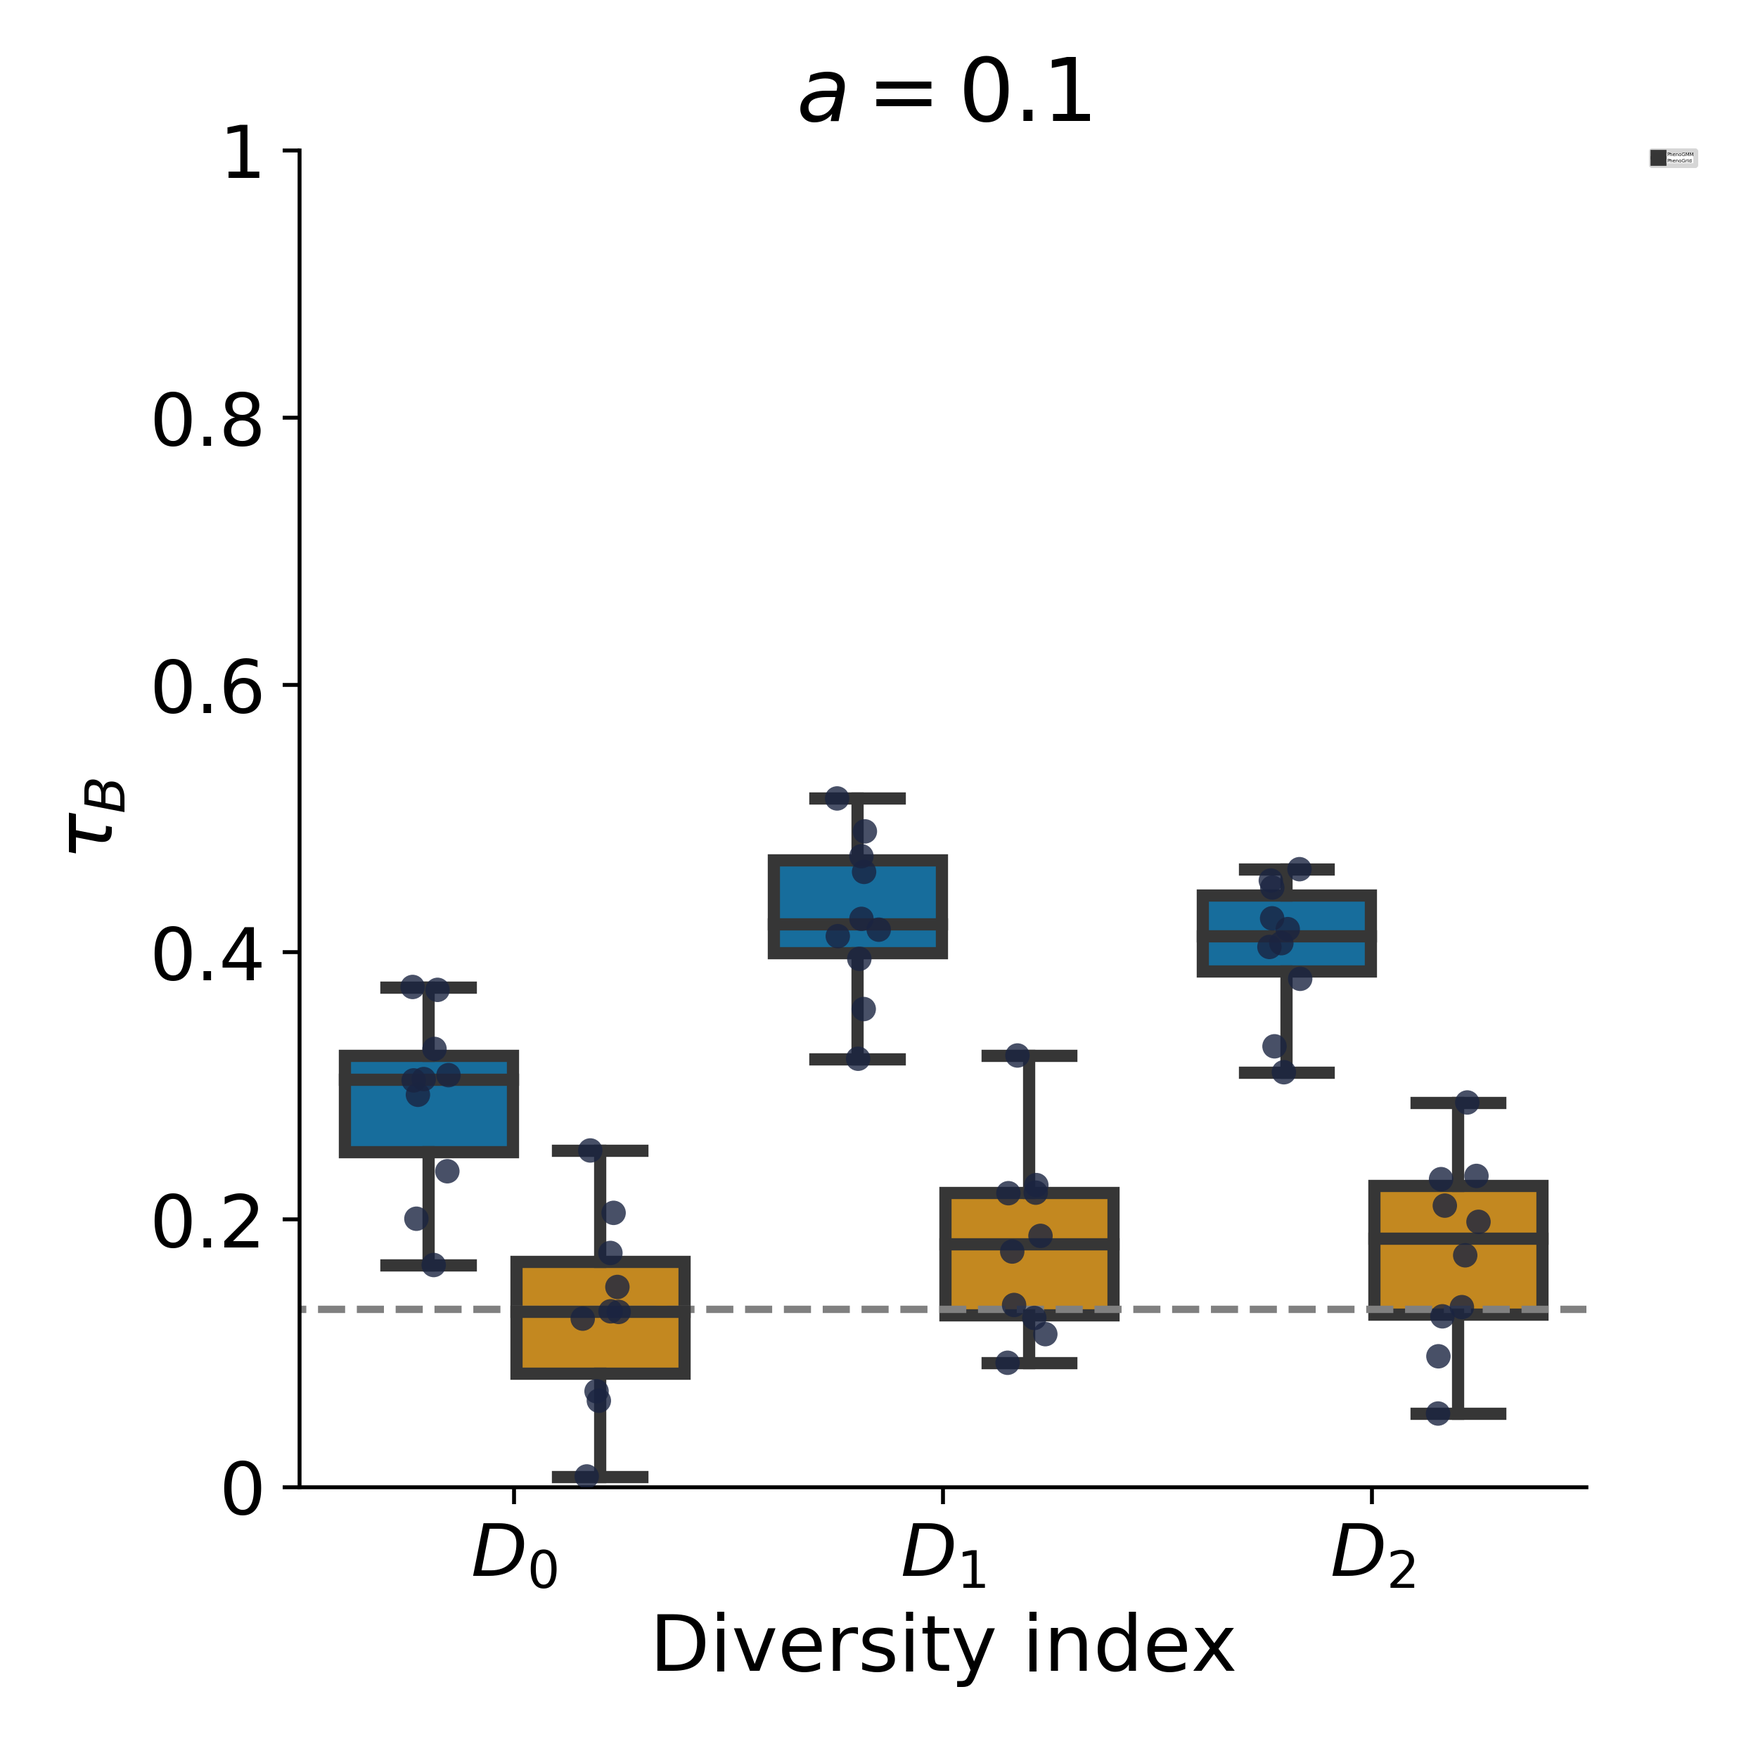
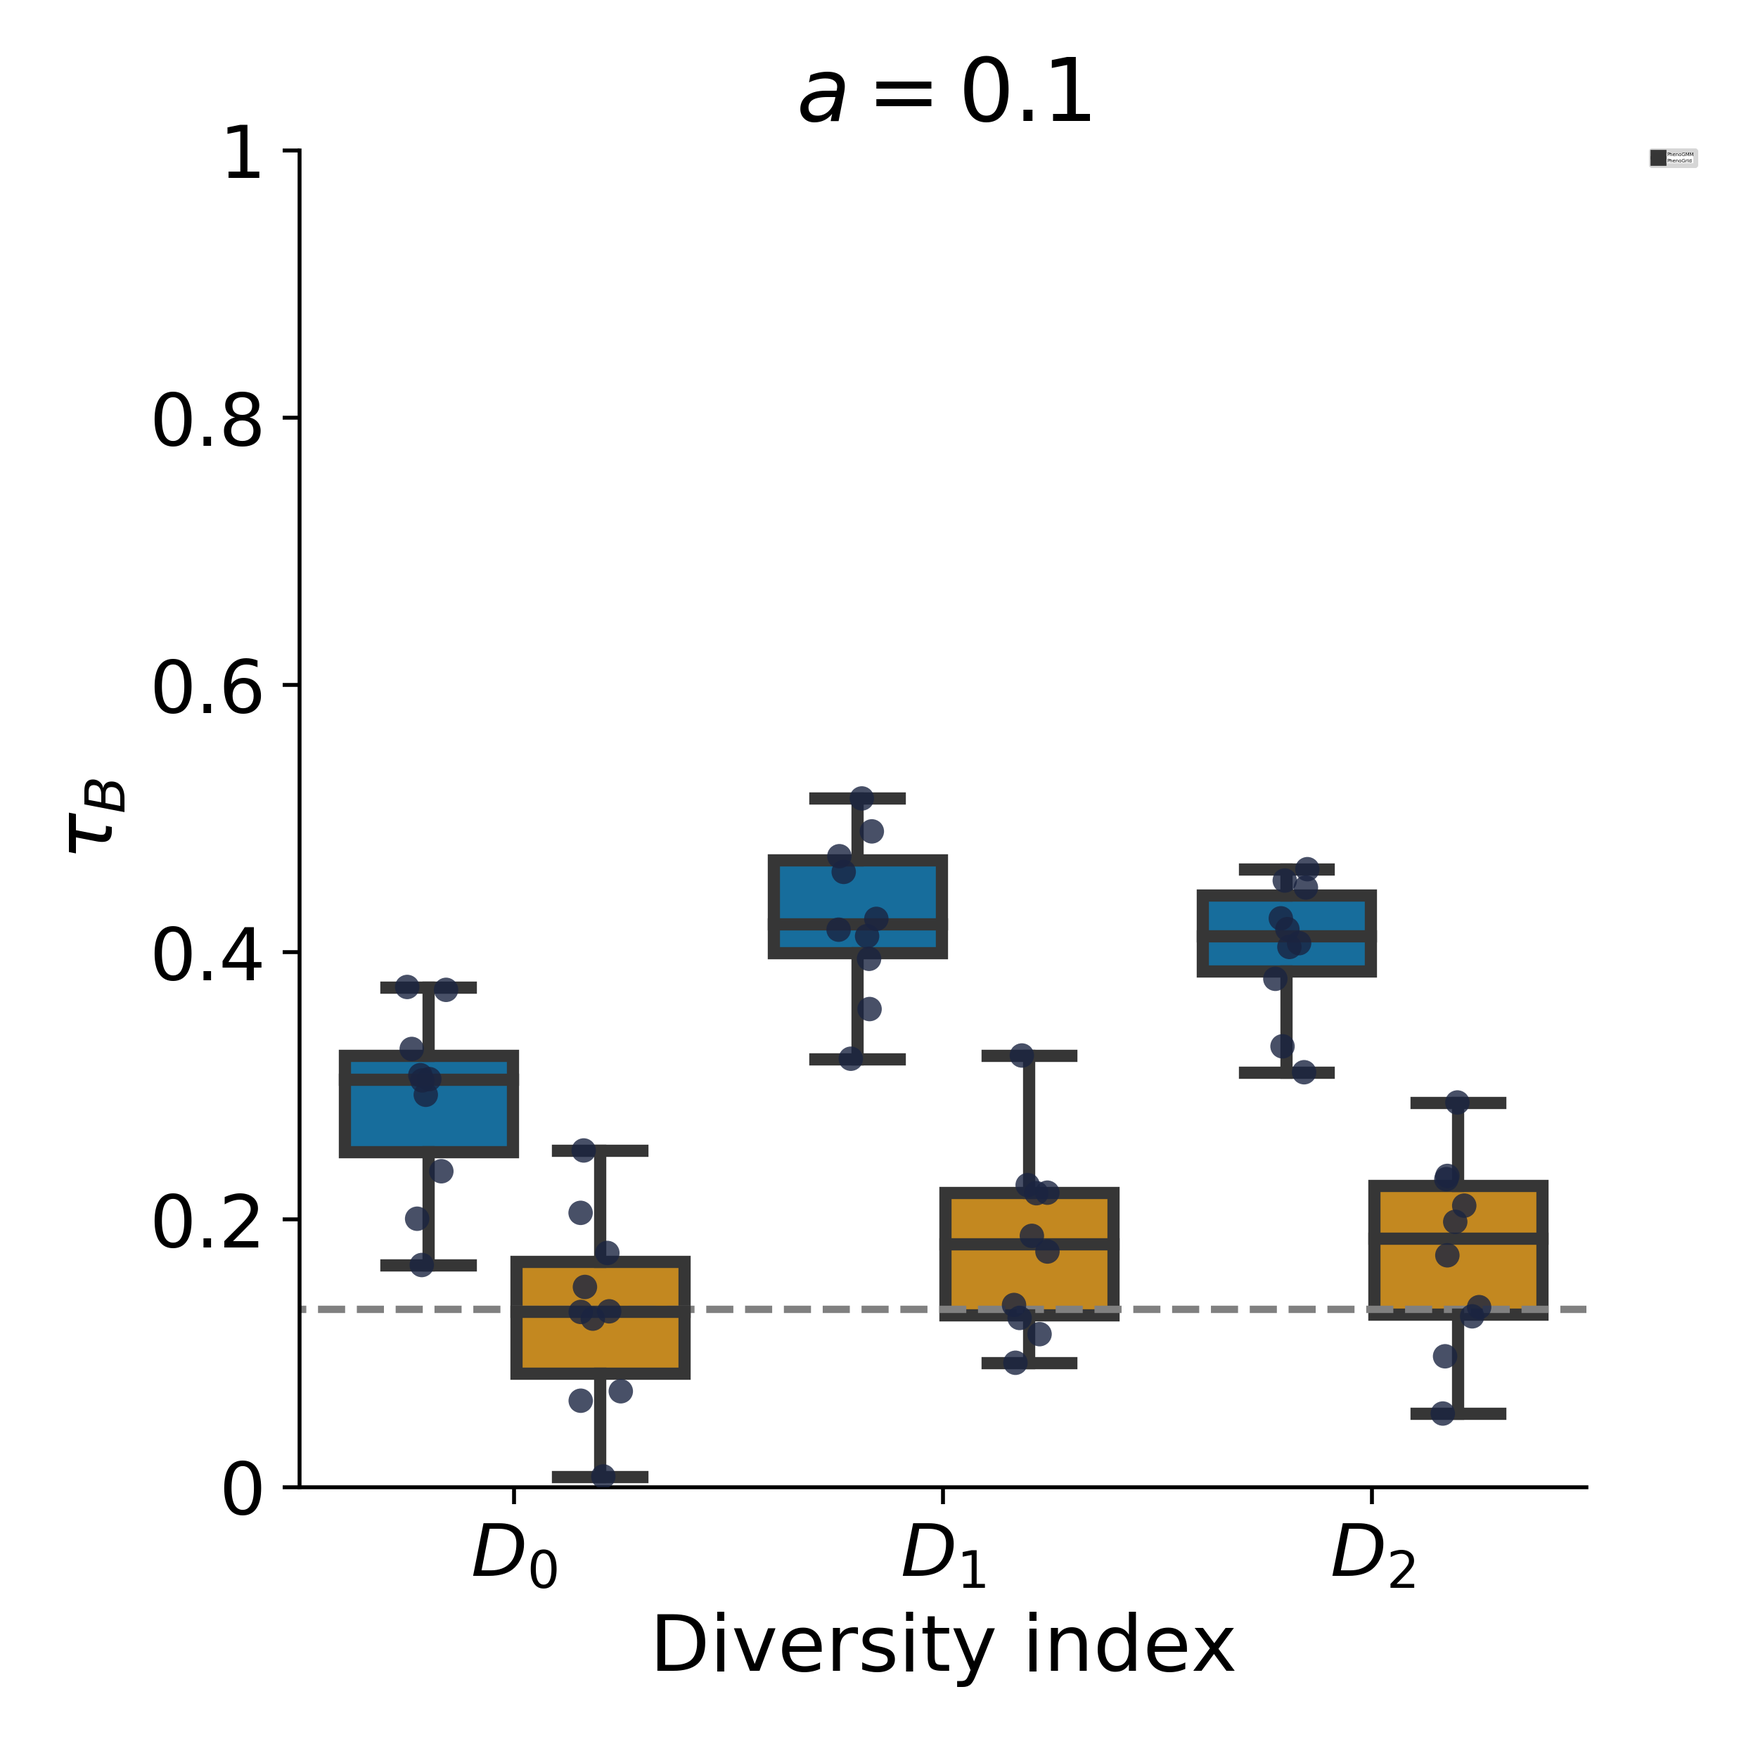
Update for SI Fig 1

diff --git a/Results/plot_fig2_SIfig1.py b/Results/plot_fig2_SIfig1.py
@@ -1,0 +1,258 @@
+#!/usr/bin/env python3
+# -*- coding: utf-8 -*-
+"""
+Created on Wed Oct 24 16:36:05 2018
+
+@author: prubbens
+"""
+
+import pandas as pd
+import matplotlib.pyplot as plt
+import seaborn as sns
+
+df_a0_1_gmm_uns = pd.read_csv('In Silico/Test_GMM_UNS_a=0.1_FEAT=3_N_CELLS_c=2500_N_CELLS_i=2500_N_MIX=128_N_SAMPLES=300_N_TREES=200_asinh.csv', index_col=0, header=0)
+df_a0_1_gmm_uns['Method'] = 'PhenoGMM'
+df_a1_gmm_uns = pd.read_csv('In Silico/Test_GMM_UNS_a=1_FEAT=3_N_CELLS_c=2500_N_CELLS_i=2500_N_MIX=128_N_SAMPLES=300_N_TREES=200_asinh.csv', index_col=0, header=0)
+df_a1_gmm_uns['Method'] = 'PhenoGMM'
+df_a10_gmm_uns = pd.read_csv('In Silico/Test_GMM_UNS_a=10_FEAT=3_N_CELLS_c=2500_N_CELLS_i=2500_N_MIX=128_N_SAMPLES=300_N_TREES=200_asinh.csv', index_col=0, header=0)
+df_a10_gmm_uns['Method'] = 'PhenoGMM'
+
+df_a0_1_grid_uns = pd.read_csv('In Silico/Test_GRID_UNS_a=0.1_FEAT=3_N_CELLS_c=2500_N_CELLS_i=2500_N_MIX=128_N_SAMPLES=300_N_TREES=200_asinh.csv', index_col=0, header=0)
+df_a0_1_grid_uns['Method'] = 'PhenoGrid'
+df_a1_grid_uns = pd.read_csv('In Silico/Test_GRID_UNS_a=1_FEAT=3_N_CELLS_c=2500_N_CELLS_i=2500_N_MIX=128_N_SAMPLES=300_N_TREES=200_asinh.csv', index_col=0, header=0)
+df_a1_grid_uns['Method'] = 'PhenoGrid'
+df_a10_grid_uns = pd.read_csv('In Silico/Test_GRID_UNS_a=10_FEAT=3_N_CELLS_c=2500_N_CELLS_i=2500_N_MIX=128_N_SAMPLES=300_N_TREES=200_asinh.csv', index_col=0, header=0)
+df_a10_grid_uns['Method'] = 'PhenoGrid'
+
+FEAT_UNS = [r'$\tau_B(D_0)$',r'$\tau_B(D_1)$',r'$\tau_B(D_2)$','Method']
+df_a0_1_uns = pd.concat([df_a0_1_gmm_uns.loc[:,FEAT_UNS],df_a0_1_grid_uns.loc[:,FEAT_UNS]])
+df_a0_1_uns = pd.melt(df_a0_1_uns, id_vars = ['Method'], var_name = 'Diversity index', value_name = r'$\tau_B$')
+df_a1_uns = pd.concat([df_a1_gmm_uns.loc[:,FEAT_UNS],df_a1_grid_uns.loc[:,FEAT_UNS]])
+df_a1_uns = pd.melt(df_a1_uns, id_vars = ['Method'], var_name = 'Diversity index', value_name = r'$\tau_B$')
+df_a10_uns = pd.concat([df_a10_gmm_uns.loc[:,FEAT_UNS],df_a10_grid_uns.loc[:,FEAT_UNS]])
+df_a10_uns = pd.melt(df_a10_uns, id_vars = ['Method'], var_name = 'Diversity index', value_name = r'$\tau_B$')
+
+pal = sns.color_palette("colorblind")
+g = sns.catplot(x='Diversity index',y=r'$\tau_B$',data=df_a0_1_uns, legend=False, hue = 'Method', kind='box', size=5, aspect=1, sharey=True, palette=pal,linewidth=2.5)
+#g = sns.catplot(x='Dataset',y=r'$R^2$',data=results, kind='box', size=4, aspect=1.6, sharey=True, color='white',linewidth=3)
+pal = sns.color_palette('cubehelix')[0:1]
+h = sns.stripplot(x='Diversity index',y=r'$\tau_B$',data=df_a0_1_uns, hue = 'Method', dodge=True, palette=pal, alpha=0.8)   
+plt.title(r'$a = 0.1$', size=18)
+#g.set_axis_labels('Classifier','AUC')
+g.set_xlabels('Diversity index',fontsize=16)
+g.set_ylabels(r'$\tau_B$',fontsize=16)
+g.set_xticklabels([r'$D_0$',r'$D_1$',r'$D_2$'],fontsize=15)
+g.set_yticklabels([0,0.2,0.4,0.6,0.8,1],fontsize=15)
+g.set(ylim=(0.0, 1.0))
+for ax in g.axes.flat:
+    plt.setp(ax.get_legend().get_texts()[0:2], fontsize=0) # for legend text
+    plt.setp(ax.get_legend().get_title(), fontsize=0)
+handles, labels = h.get_legend_handles_labels()
+l = plt.legend(handles[0:2], labels[0:2], bbox_to_anchor=(1.05, 1), loc=2, borderaxespad=0., fontsize=0)
+#handles, labels = g.get_legend_handles_labels()
+plt.tight_layout()
+plt.hlines(y = 0.133, xmin = -1, xmax = 3, linestyles='--', colors='grey')
+plt.savefig('Figures/sync_uns_a01_1.png',dpi=500,bbox_tight=True)
+
+pal = sns.color_palette("colorblind")
+g = sns.catplot(x='Diversity index',y=r'$\tau_B$',data=df_a1_uns, legend=False, hue = 'Method', kind='box', size=5, aspect=1, sharey=True, palette=pal,linewidth=2.5)
+#g = sns.catplot(x='Dataset',y=r'$R^2$',data=results, kind='box', size=4, aspect=1.6, sharey=True, color='white',linewidth=3)
+pal = sns.color_palette('cubehelix')[0:1]
+h = sns.stripplot(x='Diversity index',y=r'$\tau_B$',data=df_a1_uns, hue = 'Method', dodge=True, palette=pal, alpha=0.8)   
+plt.title(r'$a = 1$', size=18)
+#g.set_axis_labels('Classifier','AUC')
+g.set_xlabels('Diversity index',fontsize=16)
+g.set_ylabels(r'$\tau_B$',fontsize=16)
+g.set_xticklabels([r'$D_0$',r'$D_1$',r'$D_2$'],fontsize=15)
+g.set_yticklabels([0,0.2,0.4,0.6,0.8,1],fontsize=15)
+g.set(ylim=(0.0, 1.0))
+for ax in g.axes.flat:
+    plt.setp(ax.get_legend().get_texts()[0:2], fontsize=0) # for legend text
+    plt.setp(ax.get_legend().get_title(), fontsize=0)
+handles, labels = h.get_legend_handles_labels()
+l = plt.legend(handles[0:2], labels[0:2], bbox_to_anchor=(1.05, 1), loc=2, borderaxespad=0., fontsize=0)
+#handles, labels = g.get_legend_handles_labels()
+plt.hlines(y = 0.133, xmin = -1, xmax = 3, linestyles='--', colors='grey')
+plt.tight_layout()
+plt.savefig('Figures/sync_uns_a1.png',dpi=500,bbox_tight=True)
+
+pal = sns.color_palette("colorblind")
+g = sns.catplot(x='Diversity index',y=r'$\tau_B$',data=df_a10_uns, legend=False, hue = 'Method', kind='box', size=5, aspect=1, sharey=True, palette=pal,linewidth=2.5)
+#g = sns.catplot(x='Dataset',y=r'$R^2$',data=results, kind='box', size=4, aspect=1.6, sharey=True, color='white',linewidth=3)
+pal = sns.color_palette('cubehelix')[0:1]
+h = sns.stripplot(x='Diversity index',y=r'$\tau_B$',data=df_a10_uns, hue = 'Method', dodge=True, palette=pal, alpha=0.8)   
+plt.title(r'$a = 10$', size=18)
+#g.set_axis_labels('Classifier','AUC')
+g.set_xlabels('Diversity index',fontsize=16)
+g.set_ylabels(r'$\tau_B$',fontsize=16)
+g.set_xticklabels([r'$D_0$',r'$D_1$',r'$D_2$'],fontsize=15)
+g.set_yticklabels([0,0.2,0.4,0.6,0.8,1],fontsize=15)
+g.set(ylim=(0.0, 1.0))
+for ax in g.axes.flat:
+    plt.setp(ax.get_legend().get_texts()[0:2], fontsize=0) # for legend text
+    plt.setp(ax.get_legend().get_title(), fontsize=0)
+handles, labels = h.get_legend_handles_labels()
+l = plt.legend(handles[0:2], labels[0:2], bbox_to_anchor=(1.05, 1), loc=2, borderaxespad=0., fontsize=0)
+plt.hlines(y = 0.133, xmin = -1, xmax = 3, linestyles='--', colors='grey')
+#handles, labels = g.get_legend_handles_labels()
+plt.tight_layout()
+plt.savefig('Figures/sync_uns_a10.png',dpi=500,bbox_tight=True)
+
+df_a0_1_gmm = pd.read_csv('In Silico/Test_GMM_SUP_a=0.1_FEAT=3_N_CELLS_c=2500_N_CELLS_i=2500_N_MIX=128_N_SAMPLES=300_N_TREES=200_asinh.csv', index_col=0, header=0)
+df_a0_1_gmm['Method'] = 'PhenoGMM'
+df_a1_gmm = pd.read_csv('In Silico/Test_GMM_SUP_a=1_FEAT=3_N_CELLS_c=2500_N_CELLS_i=2500_N_MIX=128_N_SAMPLES=300_N_TREES=200_asinh.csv', index_col=0, header=0)
+df_a1_gmm['Method'] = 'PhenoGMM'
+df_a10_gmm = pd.read_csv('In Silico/Test_GMM_SUP_a=10_FEAT=3_N_CELLS_c=2500_N_CELLS_i=2500_N_MIX=128_N_SAMPLES=300_N_TREES=200_asinh.csv', index_col=0, header=0)
+df_a10_gmm['Method'] = 'PhenoGMM'
+
+df_a0_1_grid = pd.read_csv('In Silico/Test_GRID_SUP_a=0.1_FEAT=3_N_CELLS_c=2500_N_CELLS_i=2500_N_MIX=128_N_SAMPLES=300_N_TREES=200_asinh.csv', index_col=0, header=0)
+df_a0_1_grid['Method'] = 'PhenoGrid'
+df_a1_grid = pd.read_csv('In Silico/Test_GRID_SUP_a=1_FEAT=3_N_CELLS_c=2500_N_CELLS_i=2500_N_MIX=128_N_SAMPLES=300_N_TREES=200_asinh.csv', index_col=0, header=0)
+df_a1_grid['Method'] = 'PhenoGrid'
+df_a10_grid = pd.read_csv('In Silico/Test_GRID_SUP_a=10_FEAT=3_N_CELLS_c=2500_N_CELLS_i=2500_N_MIX=128_N_SAMPLES=300_N_TREES=200_asinh.csv', index_col=0, header=0)
+df_a10_grid['Method'] = 'PhenoGrid'
+
+FEAT_UNS = [r'$\tau_B(D_0)$',r'$\tau_B(D_1)$',r'$\tau_B(D_2)$','Method']
+df_a0_1 = pd.concat([df_a0_1_gmm.loc[:,FEAT_UNS],df_a0_1_grid.loc[:,FEAT_UNS]])
+df_a0_1 = pd.melt(df_a0_1, id_vars = ['Method'], var_name = 'Diversity index', value_name = r'$\tau_B$')
+df_a1 = pd.concat([df_a1_gmm.loc[:,FEAT_UNS],df_a1_grid.loc[:,FEAT_UNS]])
+df_a1 = pd.melt(df_a1, id_vars = ['Method'], var_name = 'Diversity index', value_name = r'$\tau_B$')
+df_a10 = pd.concat([df_a10_gmm.loc[:,FEAT_UNS],df_a10_grid.loc[:,FEAT_UNS]])
+df_a10 = pd.melt(df_a10, id_vars = ['Method'], var_name = 'Diversity index', value_name = r'$\tau_B$')
+
+pal = sns.color_palette("colorblind")
+g = sns.catplot(x='Diversity index',y=r'$\tau_B$',data=df_a0_1, legend=False, hue = 'Method', kind='box', size=5, aspect=1, sharey=True, palette=pal,linewidth=2.5)
+#g = sns.catplot(x='Dataset',y=r'$R^2$',data=results, kind='box', size=4, aspect=1.6, sharey=True, color='white',linewidth=3)
+pal = sns.color_palette('cubehelix')[0:1]
+h = sns.stripplot(x='Diversity index',y=r'$\tau_B$',data=df_a0_1, hue = 'Method', dodge=True, palette=pal, alpha=0.8)   
+plt.title(r'$a = 0.1$', size=18)
+#g.set_axis_labels('Classifier','AUC')
+g.set_xlabels('Diversity index',fontsize=16)
+g.set_ylabels(r'$\tau_B$',fontsize=16)
+g.set_xticklabels([r'$D_0$',r'$D_1$',r'$D_2$'],fontsize=15)
+g.set_yticklabels([0,0.2,0.4,0.6,0.8,1],fontsize=15)
+g.set(ylim=(0.0, 1.0))
+for ax in g.axes.flat:
+    plt.setp(ax.get_legend().get_texts()[0:2], fontsize=0) # for legend text
+    plt.setp(ax.get_legend().get_title(), fontsize=0)
+handles, labels = h.get_legend_handles_labels()
+l = plt.legend(handles[0:2], labels[0:2], bbox_to_anchor=(1.05, 1), loc=2, borderaxespad=0., fontsize=0)
+plt.hlines(y = 0.133, xmin = -1, xmax = 3, linestyles='--', colors='grey')
+#handles, labels = g.get_legend_handles_labels()
+plt.tight_layout()
+plt.savefig('Figures/sync_sup_a01_1.png',dpi=500,bbox_tight=True)
+
+pal = sns.color_palette("colorblind")
+g = sns.catplot(x='Diversity index',y=r'$\tau_B$',data=df_a1, legend=False, hue = 'Method', kind='box', size=5, aspect=1, sharey=True, palette=pal,linewidth=2.5)
+#g = sns.catplot(x='Dataset',y=r'$R^2$',data=results, kind='box', size=4, aspect=1.6, sharey=True, color='white',linewidth=3)
+pal = sns.color_palette('cubehelix')[0:1]
+h = sns.stripplot(x='Diversity index',y=r'$\tau_B$',data=df_a1, hue = 'Method', dodge=True, palette=pal, alpha=0.8)   
+plt.title(r'$a = 1$', size=18)
+#g.set_axis_labels('Classifier','AUC')
+g.set_xlabels('Diversity index',fontsize=16)
+g.set_ylabels(r'$\tau_B$',fontsize=16)
+g.set_xticklabels([r'$D_0$',r'$D_1$',r'$D_2$'],fontsize=15)
+g.set_yticklabels([0,0.2,0.4,0.6,0.8,1],fontsize=15)
+g.set(ylim=(0.0, 1.0))
+for ax in g.axes.flat:
+    plt.setp(ax.get_legend().get_texts()[0:2], fontsize=0) # for legend text
+    plt.setp(ax.get_legend().get_title(), fontsize=0)
+handles, labels = h.get_legend_handles_labels()
+l = plt.legend(handles[0:2], labels[0:2], bbox_to_anchor=(1.05, 1), loc=2, borderaxespad=0., fontsize=0)
+plt.hlines(y = 0.133, xmin = -1, xmax = 3, linestyles='--', colors='grey')
+#handles, labels = g.get_legend_handles_labels()
+plt.tight_layout()
+plt.savefig('Figures/sync_sup_a1.png',dpi=500,bbox_tight=True)
+
+pal = sns.color_palette("colorblind")
+g = sns.catplot(x='Diversity index',y=r'$\tau_B$',data=df_a10, legend=False, hue = 'Method', kind='box', size=5, aspect=1, sharey=True, palette=pal,linewidth=2.5)
+#g = sns.catplot(x='Dataset',y=r'$R^2$',data=results, kind='box', size=4, aspect=1.6, sharey=True, color='white',linewidth=3)
+pal = sns.color_palette('cubehelix')[0:1]
+h = sns.stripplot(x='Diversity index',y=r'$\tau_B$',data=df_a10, hue = 'Method', dodge=True, palette=pal, alpha=0.8)   
+plt.title(r'$a = 10$', size=18)
+#g.set_axis_labels('Classifier','AUC')
+g.set_xlabels('Diversity index',fontsize=16)
+g.set_ylabels(r'$\tau_B$',fontsize=16)
+g.set_xticklabels([r'$D_0$',r'$D_1$',r'$D_2$'],fontsize=15)
+g.set_yticklabels([0,0.2,0.4,0.6,0.8,1],fontsize=15)
+g.set(ylim=(0.0, 1.0))
+for ax in g.axes.flat:
+    plt.setp(ax.get_legend().get_texts()[0:2], fontsize=0) # for legend text
+    plt.setp(ax.get_legend().get_title(), fontsize=0)
+handles, labels = h.get_legend_handles_labels()
+l = plt.legend(handles[0:2], labels[0:2], bbox_to_anchor=(1.05, 1), loc=2, borderaxespad=0., fontsize=0)
+plt.hlines(y = 0.133, xmin = -1, xmax = 3, linestyles='--', colors='grey')
+#handles, labels = g.get_legend_handles_labels()
+plt.tight_layout()
+plt.savefig('Figures/sync_sup_a10.png',dpi=500,bbox_tight=True)
+
+FEAT_UNS = [r'$R^2(D_0)$',r'$R^2(D_1)$',r'$R^2(D_2)$','Method']
+df_a0_1_r2 = pd.concat([df_a0_1_gmm.loc[:,FEAT_UNS],df_a0_1_grid.loc[:,FEAT_UNS]])
+df_a0_1 = pd.melt(df_a0_1_r2, id_vars = ['Method'], var_name = 'Diversity index', value_name = r'$R^2$')
+df_a1_r2 = pd.concat([df_a1_gmm.loc[:,FEAT_UNS],df_a1_grid.loc[:,FEAT_UNS]])
+df_a1 = pd.melt(df_a1_r2, id_vars = ['Method'], var_name = 'Diversity index', value_name = r'$R^2$')
+df_a10_r2 = pd.concat([df_a10_gmm.loc[:,FEAT_UNS],df_a10_grid.loc[:,FEAT_UNS]])
+df_a10 = pd.melt(df_a10_r2, id_vars = ['Method'], var_name = 'Diversity index', value_name = r'$R^2$')
+
+pal = sns.color_palette("colorblind")
+g = sns.catplot(x='Diversity index',y=r'$R^2$',data=df_a0_1, legend=False, hue = 'Method', kind='box', size=5, aspect=1, sharey=True, palette=pal,linewidth=2.5)
+#g = sns.catplot(x='Dataset',y=r'$R^2$',data=results, kind='box', size=4, aspect=1.6, sharey=True, color='white',linewidth=3)
+pal = sns.color_palette('cubehelix')[0:1]
+h = sns.stripplot(x='Diversity index',y=r'$R^2$',data=df_a0_1, hue = 'Method', dodge=True, palette=pal, alpha=0.8)   
+plt.title(r'$a = 0.1$', size=18)
+#g.set_axis_labels('Classifier','AUC')
+g.set_xlabels('Diversity index',fontsize=16)
+g.set_ylabels(r'$R^2$',fontsize=16)
+g.set_xticklabels([r'$D_0$',r'$D_1$',r'$D_2$'],fontsize=15)
+g.set_yticklabels([0,0.2,0.4,0.6,0.8,1],fontsize=15)
+g.set(ylim=(0.0, 1.0))
+for ax in g.axes.flat:
+    plt.setp(ax.get_legend().get_texts()[0:2], fontsize=0) # for legend text
+    plt.setp(ax.get_legend().get_title(), fontsize=0)
+handles, labels = h.get_legend_handles_labels()
+l = plt.legend(handles[0:2], labels[0:2], bbox_to_anchor=(1.05, 1), loc=2, borderaxespad=0., fontsize=0)
+#handles, labels = g.get_legend_handles_labels()
+plt.tight_layout()
+plt.savefig('Figures/SI/sync_sup_a01_1_r2.png',dpi=500,bbox_tight=True)
+
+pal = sns.color_palette("colorblind")
+g = sns.catplot(x='Diversity index',y=r'$R^2$',data=df_a1, legend=False, hue = 'Method', kind='box', size=5, aspect=1, sharey=True, palette=pal,linewidth=2.5)
+#g = sns.catplot(x='Dataset',y=r'$R^2$',data=results, kind='box', size=4, aspect=1.6, sharey=True, color='white',linewidth=3)
+pal = sns.color_palette('cubehelix')[0:1]
+h = sns.stripplot(x='Diversity index',y=r'$R^2$',data=df_a1, hue = 'Method', dodge=True, palette=pal, alpha=0.8)   
+plt.title(r'$a = 1$', size=18)
+#g.set_axis_labels('Classifier','AUC')
+g.set_xlabels('Diversity index',fontsize=16)
+g.set_ylabels(r'$R^2$',fontsize=16)
+g.set_xticklabels([r'$D_0$',r'$D_1$',r'$D_2$'],fontsize=15)
+g.set_yticklabels([0,0.2,0.4,0.6,0.8,1],fontsize=15)
+g.set(ylim=(0.0, 1.0))
+for ax in g.axes.flat:
+    plt.setp(ax.get_legend().get_texts()[0:2], fontsize=0) # for legend text
+    plt.setp(ax.get_legend().get_title(), fontsize=0)
+handles, labels = h.get_legend_handles_labels()
+l = plt.legend(handles[0:2], labels[0:2], bbox_to_anchor=(1.05, 1), loc=2, borderaxespad=0., fontsize=0)
+#handles, labels = g.get_legend_handles_labels()
+plt.tight_layout()
+plt.savefig('Figures/SI/sync_sup_a1_r2.png',dpi=500,bbox_tight=True)
+
+pal = sns.color_palette("colorblind")
+g = sns.catplot(x='Diversity index',y=r'$R^2$',data=df_a10, legend=False, hue = 'Method', kind='box', size=5, aspect=1, sharey=True, palette=pal,linewidth=2.5)
+#g = sns.catplot(x='Dataset',y=r'$R^2$',data=results, kind='box', size=4, aspect=1.6, sharey=True, color='white',linewidth=3)
+pal = sns.color_palette('cubehelix')[0:1]
+h = sns.stripplot(x='Diversity index',y=r'$R^2$',data=df_a10, hue = 'Method', dodge=True, palette=pal, alpha=0.8)   
+plt.title(r'$a = 10$', size=18)
+#g.set_axis_labels('Classifier','AUC')
+g.set_xlabels('Diversity index',fontsize=16)
+g.set_ylabels(r'$R^2$',fontsize=16)
+g.set_xticklabels([r'$D_0$',r'$D_1$',r'$D_2$'],fontsize=15)
+g.set_yticklabels([0,0.2,0.4,0.6,0.8,1],fontsize=15)
+g.set(ylim=(0.0, 1.0))
+for ax in g.axes.flat:
+    plt.setp(ax.get_legend().get_texts()[0:2], fontsize=0) # for legend text
+    plt.setp(ax.get_legend().get_title(), fontsize=0)
+handles, labels = h.get_legend_handles_labels()
+l = plt.legend(handles[0:2], labels[0:2], bbox_to_anchor=(1.05, 1), loc=2, borderaxespad=0., fontsize=0)
+#handles, labels = g.get_legend_handles_labels()
+plt.tight_layout()
+plt.savefig('Figures/SI/sync_sup_a10_r2.png',dpi=500,bbox_tight=True)
